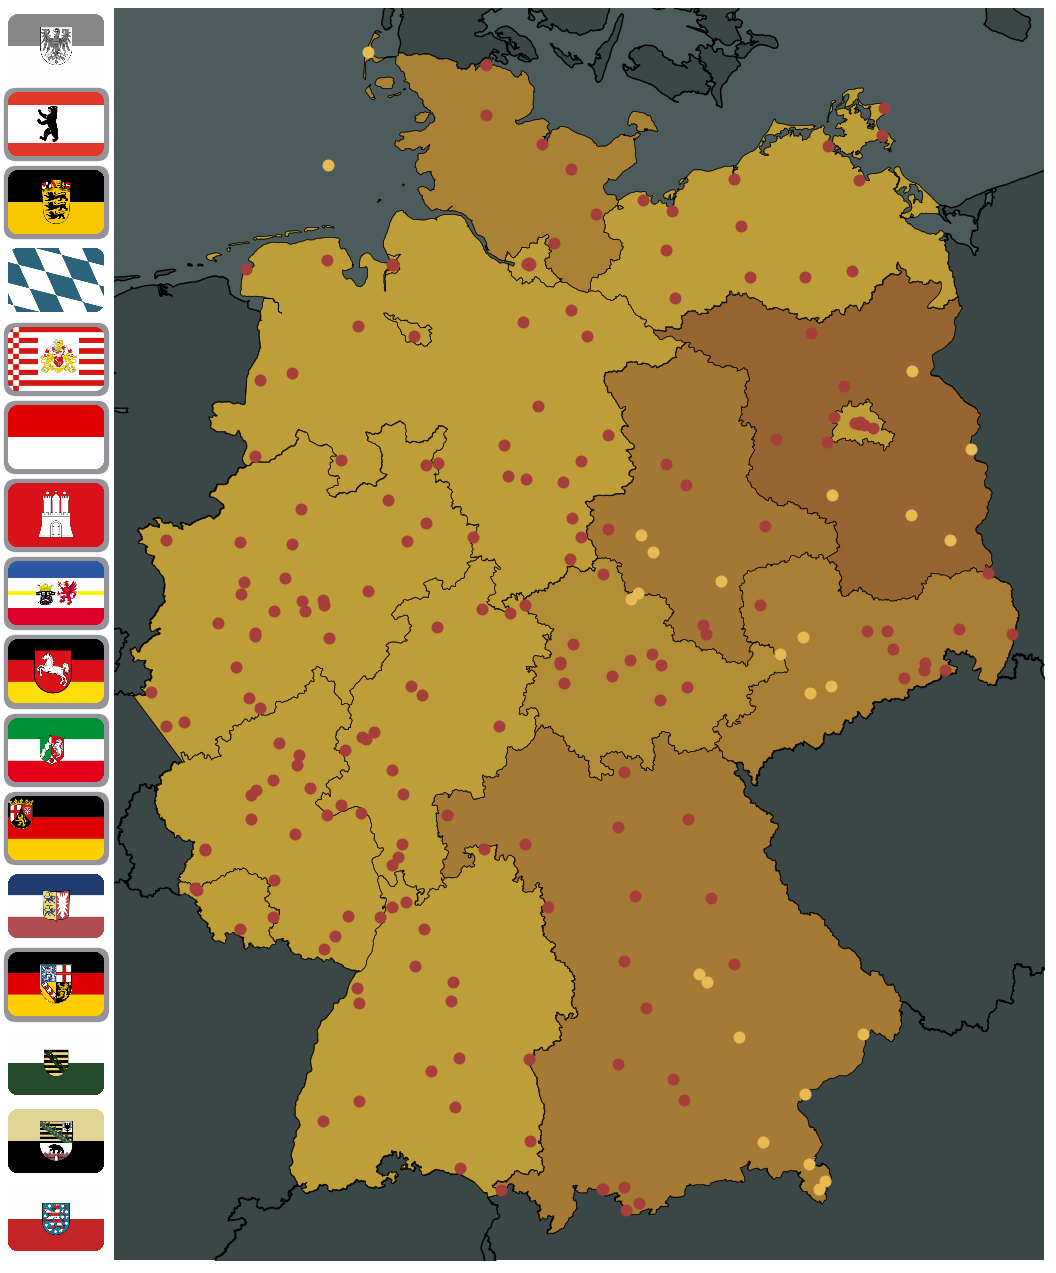
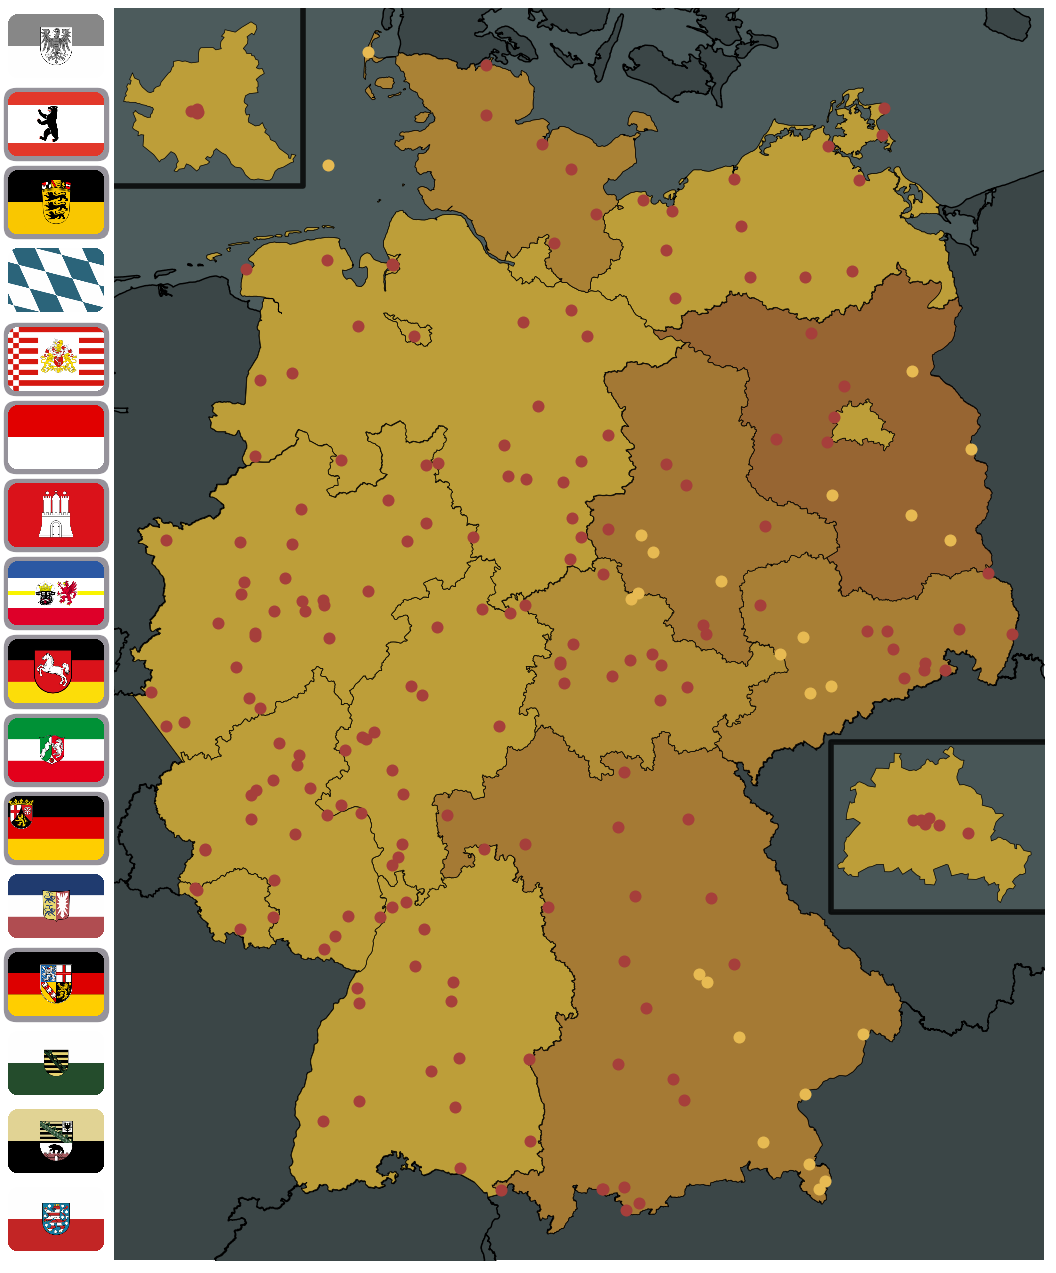
rescale BE and HH

Changed region(s): [[0.7812, 0.5821, 1.0, 0.7353], [0.0938, 0.0, 0.3125, 0.1532], [0.8125, 0.3064, 0.8438, 0.337]]

diff --git a/main.py b/main.py
@@ -52,13 +52,13 @@ plot_manager = PlotManager(
 
 # Add first plot
 current_date = points_sorted['date'].min() - datetime.timedelta(days=1)
-plot_manager.generate_plot(current_date, points_sorted.iloc[0], copy=True)
+#plot_manager.generate_plot(current_date, points_sorted.iloc[0], copy=True)
 
 # Plot all dates
 for _, row in points_sorted.iterrows():
     current_date = row['date']
     if pd.notna(current_date) and current_date != old_date:
-        plot_manager.generate_plot(current_date, row)
+        #plot_manager.generate_plot(current_date, row)
         old_date = current_date
 
 # Create Last Plot

diff --git a/plotting/plotting_manager.py b/plotting/plotting_manager.py
@@ -172,7 +172,7 @@ class PlotManager:
                 )
             )
 
-            #if submap["Name"] == "MT":
+            #if submap["Name"] == "BE":
             #    print(submap_points["geometry"])
 
             # Write transformed geometries back into working copy
